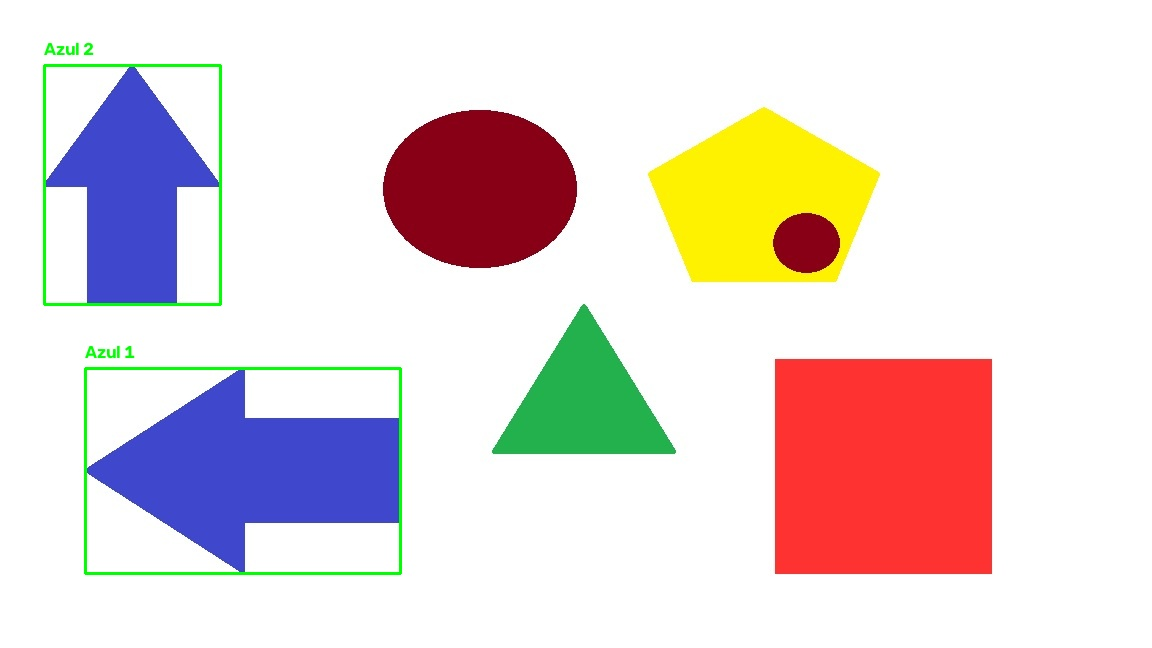
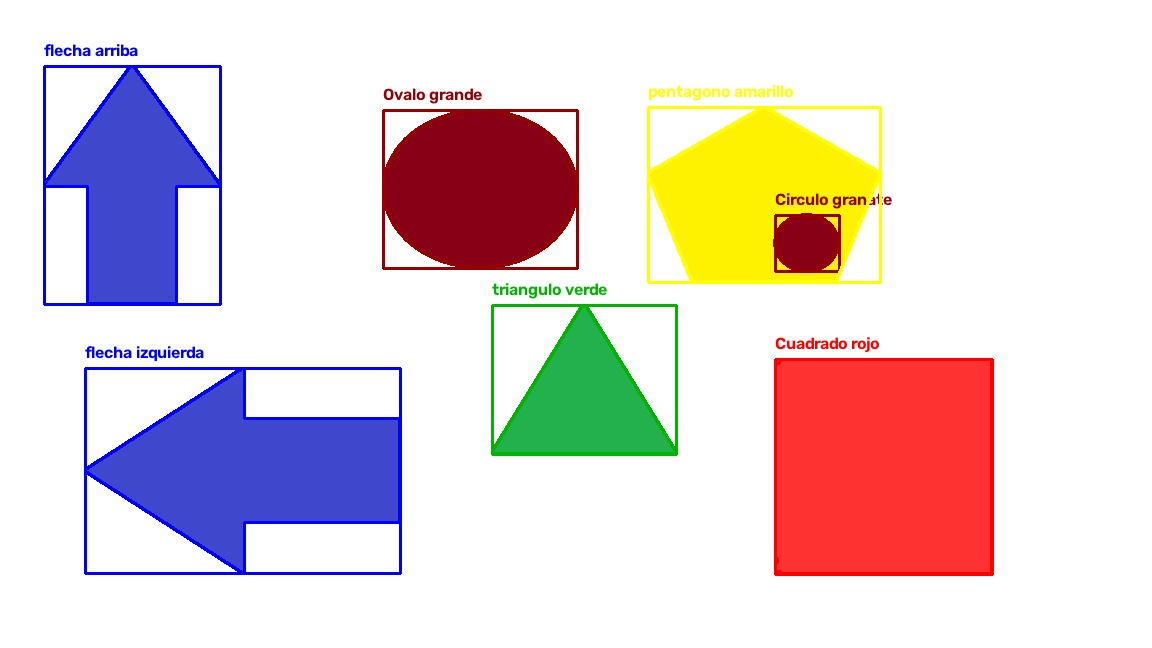
...

diff --git a/codigo_estudiantes/D_Melgar/ejemplo.py b/codigo_estudiantes/D_Melgar/ejemplo.py
@@ -1,0 +1,177 @@
+
+import cv2
+import numpy as np
+
+# 1. Cargar la imagen
+imagen = cv2.imread("Figuras.jpg")
+
+if imagen is None:
+    raise FileNotFoundError(
+        "No se encontro Figuras.jpg"
+    )
+
+# 2. Convertir la imagen a HSV
+hsv = cv2.cvtColor(imagen, cv2.COLOR_BGR2HSV)
+
+# 3. Definir los rangos de cada color
+rangos = {
+    "azul": (
+        np.array([90, 80, 50]),
+        np.array([135, 255, 255])
+    ),
+    "granate": (
+        np.array([165, 80, 40]),
+        np.array([179, 255, 220])
+    ),
+    "amarillo": (
+        np.array([18, 80, 100]),
+        np.array([40, 255, 255])
+    ),
+    "verde": (
+        np.array([40, 60, 40]),
+        np.array([90, 255, 255])
+    ),
+    "rojo": (
+        np.array([0, 80, 100]),
+        np.array([10, 255, 255])
+    )
+}
+
+# 4. Colores para dibujar, en formato BGR
+colores = {
+    "azul": (255, 0, 0),
+    "granate": (0, 0, 150),
+    "amarillo": (0, 255, 255),
+    "verde": (0, 180, 0),
+    "rojo": (0, 0, 255)
+}
+
+# 5. Preparar la imagen de salida
+resultado = imagen.copy()
+
+# Mascara general para mostrar los colores detectados
+mascara_total = np.zeros(
+    imagen.shape[:2],
+    dtype=np.uint8
+)
+
+kernel = np.ones((3, 3), np.uint8)
+
+contador = 0
+
+# 6. Procesar cada color
+for color, (inferior, superior) in rangos.items():
+
+    mascara = cv2.inRange(
+        hsv, inferior, superior
+    )
+
+    # Limpiar pequenos puntos de ruido
+    mascara = cv2.morphologyEx(
+        mascara, cv2.MORPH_OPEN, kernel
+    )
+
+    mascara = cv2.morphologyEx(
+        mascara, cv2.MORPH_CLOSE, kernel
+    )
+
+    mascara_total = cv2.bitwise_or(
+        mascara_total, mascara
+    )
+
+    # 7. Buscar todos los contornos del color actual
+    contornos, jerarquia = cv2.findContours(
+        mascara,
+        cv2.RETR_EXTERNAL,
+        cv2.CHAIN_APPROX_SIMPLE
+    )
+
+    # Analizar cada contorno encontrado
+    for contorno in contornos:
+
+        # Calcular el area
+        area = cv2.contourArea(contorno)
+
+        # Ignorar regiones pequenas
+        if area < 300:
+            continue
+
+        # Obtener ubicacion y dimensiones
+        x, y, ancho, alto = cv2.boundingRect(
+            contorno
+        )
+
+        # 8. Asignar el nombre de la figura
+        if color == "azul":
+            if alto > ancho:
+                nombre = "Flecha arriba"
+            else:
+                nombre = "Flecha izquierda"
+
+        elif color == "granate":
+            if area > 8000:
+                nombre = "Ovalo granate"
+            else:
+                nombre = "Circulo granate"
+
+        elif color == "amarillo":
+            nombre = "Pentagono amarillo"
+
+        elif color == "verde":
+            nombre = "Triangulo verde"
+
+        elif color == "rojo":
+            nombre = "Cuadrado rojo"
+
+        # 9. Dibujar el contorno de la figura
+        cv2.drawContours(
+            resultado,
+            [contorno],
+            -1,
+            colores[color],
+            2
+        )
+
+        # 10. Dibujar el rectangulo delimitador
+        cv2.rectangle(
+            resultado,
+            (x, y),
+            (x + ancho, y + alto),
+            colores[color],
+            2
+        )
+
+        # 11. Escribir el nombre de la figura
+        cv2.putText(
+            resultado,
+            nombre,
+            (x, max(y - 10, 20)),
+            cv2.FONT_HERSHEY_SIMPLEX,
+            0.55,
+            colores[color],
+            2,
+            cv2.LINE_AA
+        )
+
+        # 12. Mostrar informacion en la consola
+        print(
+            "Figura:", nombre,
+            "| Area:", round(area, 2),
+            "| X:", x,
+            "| Y:", y,
+            "| Ancho:", ancho,
+            "| Alto:", alto
+        )
+
+        contador += 1
+
+# 13. Mostrar y guardar los resultados
+print("Regiones detectadas:", contador)
+
+cv2.imshow("Mascara de colores", mascara_total)
+cv2.imshow("Objetos detectados", resultado)
+
+cv2.imwrite("objetos_detectados.jpg", resultado)
+
+cv2.waitKey(0)
+cv2.destroyAllWindows()

diff --git a/codigo_estudiantes/D_Melgar/ejercicio_ubicar_elñementos.py b/codigo_estudiantes/D_Melgar/ejercicio_ubicar_elñementos.py
@@ -1,0 +1,122 @@
+import cv2
+import numpy as np
+
+imagen = cv2.imread("Figuras.jpg")
+
+if imagen is None:
+    raise FileNotFoundError("No se encontró figuras.jpg")
+
+hsv = cv2.cvtColor(imagen, cv2.COLOR_BGR2HSV)
+
+# Rango del color azul
+rangos = {
+    "azul": (np.array([90, 80, 50]), np.array([130, 255, 255])),
+    "granate": (np.array([165, 80, 40]), np.array([179, 255, 220])),
+    "amarillo": (np.array([18,80,10]), np.array([39, 255, 255])),
+    "verde": (np.array([40,60,40]), np.array([90, 255, 255])),
+    "rojo": (np.array([0, 80, 100]), np.array([12, 255, 255])),
+}
+
+colores = {
+    "azul": (255, 0, 0),
+    "granate": (0, 0, 150),
+    "amarillo": (0, 255, 255),
+    "verde": (0, 180, 0),
+    "rojo": (0, 0, 255),
+}
+
+# Trabajar sobre una copia
+resultado = imagen.copy()
+
+
+mascara_total = np.zeros(imagen.shape[:2], dtype=np.uint8)
+
+kernel = np.ones((3, 3), np.uint8)
+
+contador = 0
+
+for color, (inferior, superior) in rangos.items():
+
+    mascara = cv2.inRange(hsv, inferior, superior)
+
+    mascara = cv2.morphologyEx(mascara, cv2.MORPH_OPEN, kernel)
+
+    mascara = cv2.morphologyEx(mascara, cv2.MORPH_CLOSE, kernel)
+    mascara_total = cv2.bitwise_or(mascara_total, mascara)
+
+    # Buscar regiones conectadas en la máscara
+
+    contornos, jerarquia = cv2.findContours(
+        mascara, cv2.RETR_EXTERNAL, cv2.CHAIN_APPROX_SIMPLE
+    )
+
+    for contorno in contornos:
+
+        # Calcular el área de la región
+        area = cv2.contourArea(contorno)
+
+        print("Color: ", color)
+        print("Area: ", area)
+
+        # Ignorar regiones demasiado pequeñas
+        if area < 300:
+         continue
+
+         # Obtener las coordenadas del rectángulo
+        x, y, ancho, alto = cv2.boundingRect(contorno)
+
+        if color == "azul":
+            if alto > ancho:
+                nombre = "flecha arriba"
+            else:
+                nombre = "flecha izquierda"
+                
+        elif color == "granate":
+            if area > 8000:
+                nombre = "Ovalo grande"
+            else:
+                nombre = "Circulo granate"
+
+        elif color == "amarillo":
+            nombre = "pentagono amarillo"
+        elif color == "verde":
+            nombre = "triangulo verde"
+        elif color == "rojo":
+            nombre = "Cuadrado rojo"
+
+        cv2.drawContours(resultado, [contorno], -1, colores[color], 2)
+        # Dibujar el rectángulo
+        cv2.rectangle(resultado, (x, y), (x + ancho, y + alto), colores[color], 2)
+
+        # Añadir una etiqueta
+        cv2.putText(
+            resultado,
+            nombre,
+            (x, max(y - 10, 20)),
+            cv2.FONT_HERSHEY_SIMPLEX,
+            0.55,
+            colores[color],
+            2,
+            cv2.LINE_AA,
+        )
+
+        print(
+            "Figura", nombre,
+            "Area: ", round (area, 2),
+            "|X", x, 
+            "|Y", y,
+            "|Ancho", ancho,
+            "|Alto", alto
+            )
+
+        contador += 1
+
+print("Regiones detectadas:", contador)
+
+cv2.imshow("Mascara", mascara_total)
+cv2.imshow("Objetos detectados", resultado)
+
+cv2.imwrite("objetos_detectados.jpg", resultado)
+
+cv2.waitKey(0)
+cv2.destroyAllWindows()

diff --git a/codigo_estudiantes/D_Melgar/opencv_etiquetado_figuras.py b/codigo_estudiantes/D_Melgar/opencv_etiquetado_figuras.py
@@ -11,12 +11,58 @@ if imagen is None:
 hsv = cv2.cvtColor(imagen, cv2.COLOR_BGR2HSV)
 
 # Rango del color azul
-inferior = np.array([90, 80, 50])
-superior = np.array([130, 255, 255])
+rangos = {
+    "azul": (
+        np.array([90, 80, 50]),
+        np.array([130, 255, 255])   
+    ),
+    "granate": (
+        np.array([165, 80, 50]),
+        np.array([179, 255, 142])
+    ),
+    
+    "amarrillo": (
+        np.array([20, 89, 255]),
+        np.array([39, 255, 255])
+    ),
+    "verde": (
+        np.array([42, 98, 216]),
+        np.array([84, 255, 255])
+    ),
+    
+    "rojo": (
+        np.array([0, 80, 120]),
+        np.array([12, 255, 255])
+    ),
+        
+}
 
-mascara = cv2.inRange(
-    hsv, inferior, superior
+colores = {
+    "azul":(255,0,0),
+    "granate": (0,0, 150),
+    "amarillo": (0,255, 255),
+    "verde":  (0,180,0),
+    "rojo" : (0,0,255)
+}
+
+# Trabajar sobre una copia
+resultado = imagen.copy()
+
+
+mascara_total = np.zeros(
+    imagen.shape[:2], dtype=np.uint8
 )
+
+kernel = np.ones((3,3), np.uint8)
+
+contador = 0
+
+for color, (inferior, superior) in range.items():
+    
+    mascara = cv2.inRange(
+        hsv, inferior, superior
+    )
+
 
 # Buscar regiones conectadas en la máscara
 contornos, jerarquia = cv2.findContours(
@@ -25,15 +71,13 @@ contornos, jerarquia = cv2.findContours(
     cv2.CHAIN_APPROX_SIMPLE
 )
 
-# Trabajar sobre una copia
-resultado = imagen.copy()
-
-contador = 0
 
 for contorno in contornos:
 
     # Calcular el área de la región
     area = cv2.contourArea(contorno)
+    
+    print("Area: ", area)
 
     # Ignorar regiones demasiado pequeñas
     if area < 300:
@@ -51,7 +95,7 @@ for contorno in contornos:
         resultado,
         (x, y),
         (x + ancho, y + alto),
-        (0, 255, 0),
+        (255,0, 0),
         2
     )
 
